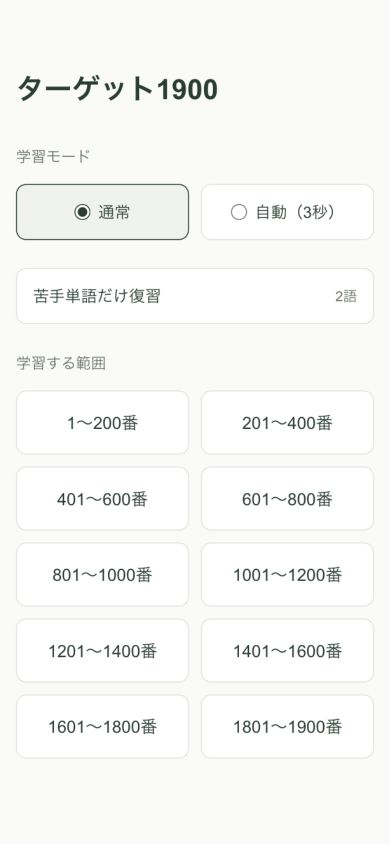
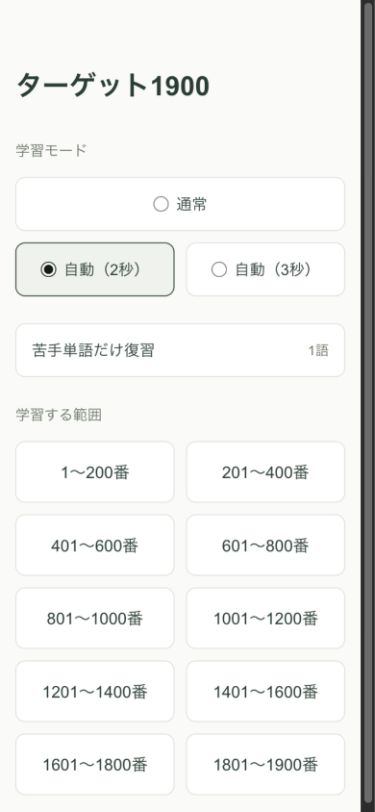
2秒の自動学習モードを追加し苦手復習でも選択できるようにする

diff --git a/src/components/study-session.tsx b/src/components/study-session.tsx
@@ -2,7 +2,7 @@
 
 import Link from "next/link";
 import { useEffect, useState, type CSSProperties } from "react";
-import { advanceStudy, advanceAutoStudy, AUTO_ADVANCE_MS, getInitialStudyState, type StudyMode, type StudyWord } from "@/lib/study";
+import { advanceStudy, advanceAutoStudy, getAutoAdvanceMs, getInitialStudyState, type StudyMode, type StudyWord } from "@/lib/study";
 import { splitMeaning } from "@/lib/meaning";
 import { useDifficultWords } from "./difficult-words-provider";
 
@@ -11,15 +11,16 @@ export function StudySession({ words, mode, onRestart }: { words: StudyWord[]; m
   const current = words[state.index];
   const { numbers, loaded, pendingNumber, error, setSaved } = useDifficultWords();
   const saved = numbers.includes(current.number);
+  const autoAdvanceMs = getAutoAdvanceMs(mode);
   const actionLabel = state.complete ? "もう一度学習する" : !state.revealed ? "意味を見る" : state.index + 1 === words.length ? "完了する" : "次の単語へ";
 
   useEffect(() => {
-    if (mode !== "auto" || state.complete) return;
+    if (autoAdvanceMs === null || state.complete) return;
     const timer = window.setTimeout(() => {
       setState((previous) => advanceAutoStudy(previous, words.length));
-    }, AUTO_ADVANCE_MS);
+    }, autoAdvanceMs);
     return () => window.clearTimeout(timer);
-  }, [mode, state.index, state.complete, words.length]);
+  }, [autoAdvanceMs, state.index, state.complete, words.length]);
 
   return (
     <>
@@ -36,7 +37,7 @@ export function StudySession({ words, mode, onRestart }: { words: StudyWord[]; m
         </svg>
       </button>}
       {error && <p className="difficult-error" role="alert">{error}</p>}
-      <main className={`study-screen${mode === "auto" && !state.complete ? " is-auto" : ""}`} aria-label="英単語の学習">
+      <main className={`study-screen${autoAdvanceMs !== null && !state.complete ? " is-auto" : ""}`} aria-label="英単語の学習">
         <div className="study-content" id="word-content" aria-live="polite" aria-atomic="true">
           {state.complete ? <h1 className="completion-title">完了</h1> : <>
             <h1 className="english-word" lang="en" style={{ "--word-length": current.word.length } as CSSProperties}>{current.word}</h1>

diff --git a/src/components/home-menu.tsx b/src/components/home-menu.tsx
@@ -20,13 +20,17 @@ export function HomeMenu() {
             通常
           </label>
           <label className="mode-option">
+            <input type="radio" name="study-mode" value="auto2" checked={mode === "auto2"} onChange={() => setMode("auto2")} />
+            自動（2秒）
+          </label>
+          <label className="mode-option">
             <input type="radio" name="study-mode" value="auto" checked={mode === "auto"} onChange={() => setMode("auto")} />
             自動（3秒）
           </label>
         </div>
       </fieldset>
       <div className="review-entry">
-        {loaded && numbers.length > 0 ? <Link className="review-option" href={`/review${mode === "auto" ? "?mode=auto" : ""}`} prefetch={false}>
+        {loaded && numbers.length > 0 ? <Link className="review-option" href={`/review${mode !== "manual" ? `?mode=${mode}` : ""}`} prefetch={false}>
           苦手単語だけ復習<span>{numbers.length}語</span>
         </Link> : <button className="review-option" disabled>苦手単語だけ復習<span>{loaded ? "0語" : "…"}</span></button>}
         {loaded && numbers.length === 0 && <p className="review-hint">学習画面の☆で登録できます。</p>}
@@ -35,7 +39,7 @@ export function HomeMenu() {
       <h2>学習する範囲</h2>
       <nav className="range-grid" aria-label="学習する範囲">
         {STUDY_RANGES.map((range) => (
-          <Link className="range-option" href={`/study?start=${range.start}${mode === "auto" ? "&mode=auto" : ""}`} key={range.start}>
+          <Link className="range-option" href={`/study?start=${range.start}${mode !== "manual" ? `&mode=${mode}` : ""}`} key={range.start}>
             {range.start}〜{range.end}番
           </Link>
         ))}

diff --git a/src/app/globals.css b/src/app/globals.css
@@ -16,7 +16,7 @@ button:focus-visible, a:focus-visible { outline: 3px solid #8fa879; outline-offs
 .home-screen h2 { font-size: 15px; font-weight: 500; color: var(--muted); margin: 0 0 16px; }
 .mode-selector { padding: 0; border: 0; margin: 0 0 28px; min-width: 0; }
 .mode-selector legend { padding: 0; font-size: 15px; color: var(--muted); margin-bottom: 16px; }
-.mode-options { display: grid; grid-template-columns: repeat(2, minmax(0, 1fr)); gap: 12px; }
+.mode-options { display: grid; grid-template-columns: repeat(3, minmax(0, 1fr)); gap: 12px; }
 .mode-option { display: flex; align-items: center; justify-content: center; gap: 8px; min-height: 56px; padding: 12px 8px; border: 1px solid var(--line); border-radius: 10px; background: #fff; font-size: 16px; cursor: pointer; }
 .mode-option input { width: 16px; height: 16px; margin: 0; accent-color: var(--ink); }
 .mode-option:has(input:checked) { border-color: var(--ink); background: #eff3ec; }
@@ -57,6 +57,8 @@ button:focus-visible, a:focus-visible { outline: 3px solid #8fa879; outline-offs
   .difficult-button:hover, .review-option:not(:disabled):hover { background: #eff3ec; }
 }
 @media (max-width: 600px) {
+  .mode-options { grid-template-columns: repeat(2, minmax(0, 1fr)); }
+  .mode-option:first-child { grid-column: 1 / -1; }
   .english-word { font-size: clamp(26px, calc(160cqw / var(--word-length, 6)), 56px); }
   .meaning { font-size: 17px; }
   .meaning-area { min-height: 100px; margin-top: 24px; }

diff --git a/src/lib/study.ts b/src/lib/study.ts
@@ -10,16 +10,19 @@ export const STUDY_RANGES = Array.from({ length: Math.ceil(TOTAL_WORDS / WORDS_P
 export type StudyRange = (typeof STUDY_RANGES)[number];
 export type StudyWord = { id: string; number: number; word: string; meaning: string };
 export type StudyState = { index: number; revealed: boolean; complete: boolean };
-export type StudyMode = "manual" | "auto";
-export const AUTO_ADVANCE_MS = 3000;
+export type StudyMode = "manual" | "auto2" | "auto";
 export const INITIAL_STUDY_STATE: StudyState = { index: 0, revealed: false, complete: false };
 
 export function getStudyMode(mode?: string | string[]): StudyMode {
-  return mode === "auto" ? "auto" : "manual";
+  return mode === "auto" || mode === "auto2" ? mode : "manual";
+}
+
+export function getAutoAdvanceMs(mode: StudyMode): number | null {
+  return mode === "auto2" ? 2000 : mode === "auto" ? 3000 : null;
 }
 
 export function getInitialStudyState(mode: StudyMode): StudyState {
-  return { ...INITIAL_STUDY_STATE, revealed: mode === "auto" };
+  return { ...INITIAL_STUDY_STATE, revealed: mode !== "manual" };
 }
 
 export function getRange(start?: string | string[]): StudyRange {

diff --git a/README.md b/README.md
@@ -3,14 +3,14 @@
 Next.jsで作った、ターゲット1900（6訂版）のシンプルな英単語アプリ。1900語は `src/data/target1900.json` に同梱し、ローカルファイルから読み込みます。苦手単語の登録だけをNeon Postgresに保存します。
 
 - ホームで1〜200、201〜400、…、1601〜1800、1801〜1900の10区分から選択。
-- ホームで「通常」「自動（3秒）」の学習モードを選択。
+- ホームで「通常」「自動（2秒）」「自動（3秒）」の学習モードを選択。
 - 範囲を選ぶと専用の学習ページ `/study?start=...` に移動。
 - 学習画面には英単語・赤文字の意味・左上のホームへの左矢印・右上の苦手登録用の星を表示。意味は項目ごとに改行し、括弧内の注釈はまとめて表示。
 - 通常モードは学習ボタン1つで「意味を見る → 次の単語へ」を繰り返す。
-- 自動モードでは単語と意味を最初から表示し、1単語3秒で次へ進む。範囲の最後で停止する。
+- 自動モードでは単語と意味を最初から表示し、選択した2秒または3秒間隔で次へ進む。範囲の最後で停止する。
 - 範囲の最後に「完了」を表示し、「もう一度学習する」で同じモードを再学習。
 - 星を押すと苦手単語に登録し、もう一度押すと解除。保存に成功したら星の色が変わる。
-- ホームの「苦手単語だけ復習」から、範囲をまたいで登録した単語だけを掲載順に復習できる。通常・自動の両モードに対応。
+- ホームの「苦手単語だけ復習」から、範囲をまたいで登録した単語だけを掲載順に復習できる。通常・自動（2秒）・自動（3秒）の全モードに対応。
 
 長い英単語は画面幅と文字数に応じて文字を縮め、日本語の意味は折り返して表示します。スマホ・iPadに対応し、学習ボタンは56px以上の高さです。スマホの横向きでは単語と操作ボタンを左右に並べます。
 
